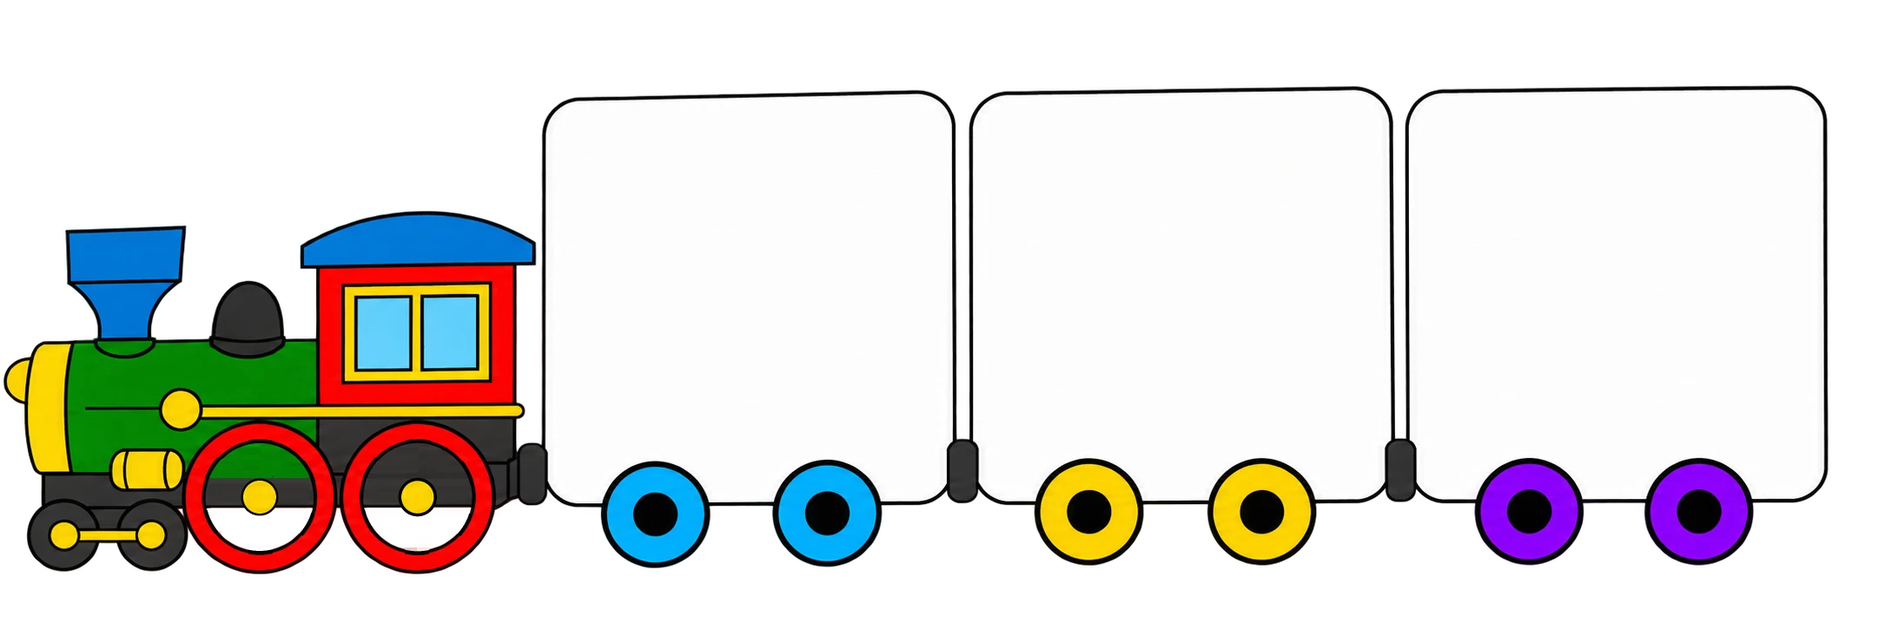
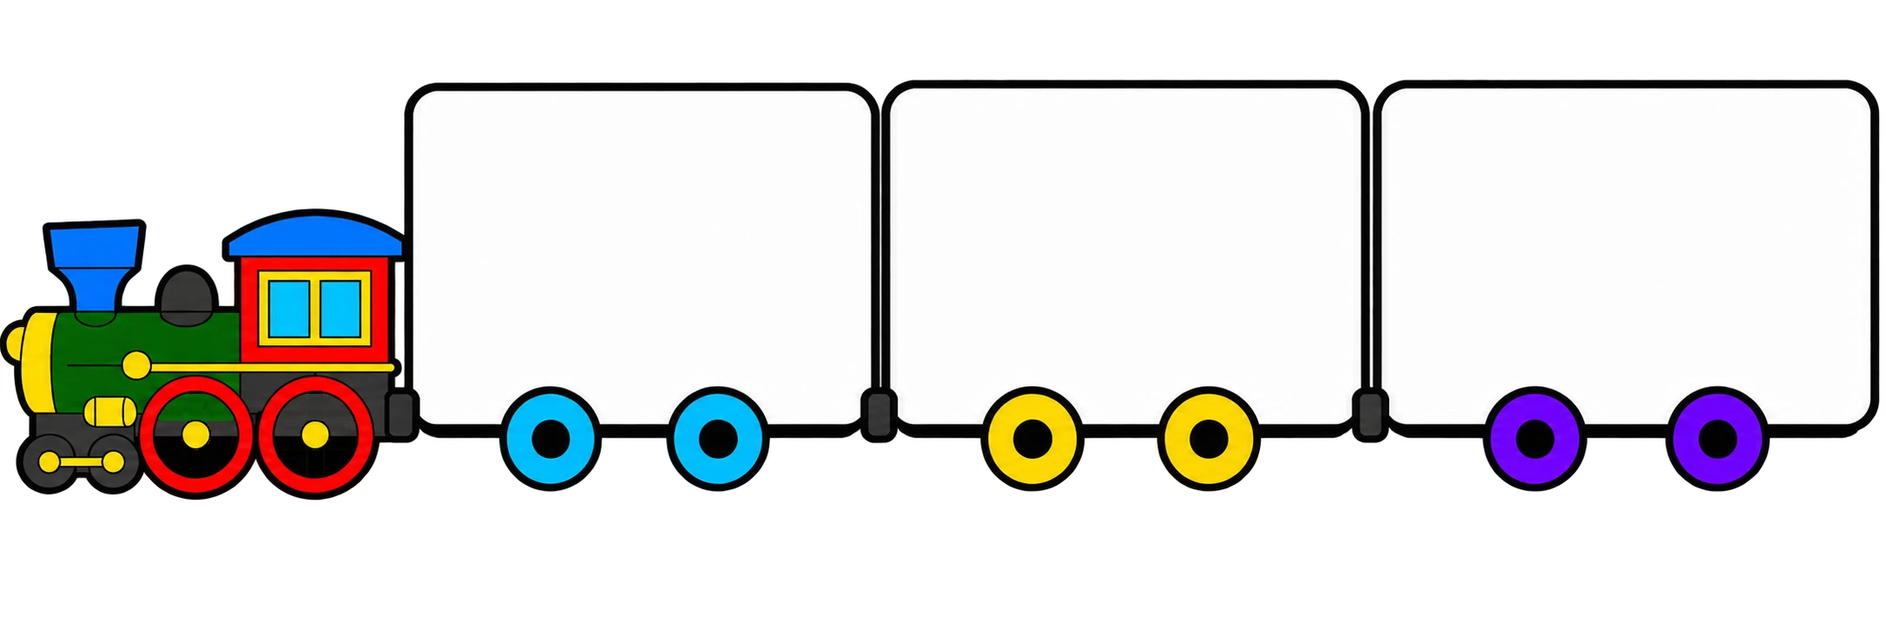
Update image assets for train visuals: replaced train_figma.webp, train_wheel_f1.webp, and train_wheel_f2.webp with new versions.

Changed region(s): [[0.0, 0.1215, 1.0, 0.9116], [0.9571, 0.7597, 0.988, 0.7901]]

diff --git a/HI02H04_L01_S01/HI02H04_L01_S01.html b/HI02H04_L01_S01/HI02H04_L01_S01.html
@@ -1053,7 +1053,7 @@ body.loaded .sg-icon{animation-play-state:running;}
 <!-- ============ CARD DATA (embedded; in prod the compiler does this) ============ -->
 
 <script type="application/json" id="cardData">
-{"version": "0.1", "end_anim": {"cols": 6, "fw": 329, "fh": 440, "step_ms": 25, "bits": "000000001110000011000001110000111100011111100000000000000000001111111111110000001111111001111100011100000111110000000", "vo": "vo_well_done", "shabaash": {"src": "assets/UI/cel_shabaash.webp", "pre": [0, 1, 2, 3, 4, 5], "word": [6, 7, 8, 9, 10, 11, 12, 13, 14, 15, 16, 17, 18, 19, 20, 21, 22, 23, 24, 25, 26, 27, 28, 29], "post": [30, 31, 32, 33, 34, 35]}, "talk": {"src": "assets/UI/cel_talk.webp", "open": [0, 1, 2, 4, 5, 6, 8, 9, 10, 11, 15, 16, 20, 21, 22, 23, 24, 25, 26, 28, 29, 30, 31, 32]}, "idle": {"src": "assets/UI/cel_idle.webp", "loop": [0, 1, 2, 3, 4, 24, 25, 26, 27, 28, 29, 30, 31, 32, 33, 34, 35]}}, "skill_code": "HI02H04_L01_S01", "lo_code": "HI02H04_L01", "grade": "G2", "attribute": "H04", "skill_type": "CORE", "part_label": "", "theme": "toybox", "landing_hero": {"kind": "image", "src": "assets/Images/pic_girl_play_ball.webp"}, "title": {"hi": "चित्र देखकर वाक्य मिलाओ!", "en": "Picture-Sentence Matching"}, "subtitle_hi": "पढ़िए · देखिए · चुनिए", "skill_description_hi": "चित्र के लिए सही वाक्य चुनता है और वाक्य के लिए सही चित्र चुनता है।", "dt_fallback": null, "phase_distribution": {"tutorial": 4, "guided": 4, "practice": 7}, "scaffold_rules": {"nudge_timeout_ms": {"guided": 5000, "independent": 8000}, "max_attempts": 3}, "signals_expected": ["slide_entered", "slide_completed", "phase_transition", "sent_to_pic_first_try", "pic_to_sent_first_try", "mastery_score", "lesson_completed"], "_emoji_fallback": {"ui_sentence_chip": "📝", "pic_boy_sit": "🧒", "pic_boy_run": "🏃", "pic_girl_play_ball": "⚽", "pic_girl_read_book": "📖", "pic_cat_drink": "🐱", "pic_cat_sleep": "😴", "pic_bird_tree": "🐦", "pic_bird_fly": "🕊", "pic_mom_cook": "🍳", "pic_mom_read": "📚", "pic_children_run": "🏃", "pic_children_sit": "🧍", "pic_sun_shine": "☀", "pic_moon_shine": "🌙", "pic_kite_fly": "🪁", "pic_kite_make": "✂"}, "slides": [{"id": "T1", "phase": "tutorial", "eis": "iconic", "type": "STORY_SCENE", "caption_chip": true, "prompt_hi": "चित्र देखिए और वाक्य पढ़िए।", "audio": {"narration": "vo_t1_instr"}, "data": {"image_id": "pic_boy_sit", "alt_hi": "लड़का पेड़ के नीचे बैठा है।", "caption_hi": "लड़का पेड़ के नीचे बैठा है।", "emoji": "🧒"}}, {"id": "T2", "phase": "tutorial", "eis": "iconic", "type": "STORY_SCENE", "caption_chip": true, "prompt_hi": "क्या यह वाक्य सही है?", "audio": {"narration": "vo_t2_instr"}, "data": {"image_id": "pic_girl_cycle", "alt_hi": "लड़का पेड़ के नीचे दौड़ रहा है।", "caption_hi": "लड़की साइकिल चला रही है।", "emoji": "🧒"}}, {"id": "T3", "phase": "tutorial", "eis": "iconic", "type": "STORY_SCENE", "caption_chip": true, "prompt_hi": "वाक्य के लिए सही चित्र चुनिए।", "audio": {"narration": "vo_t3_instr"}, "data": {"image_ids": ["pic_girl_pick_flowers", "pic_girl_water_plants"], "image_id": "pic_girl_play_ball", "alt_hi": "लड़की गेंद से खेल रही है।", "caption_hi": "लड़की पौधों को पानी दे रही है।", "emoji": "⚽"}}, {"id": "G1", "phase": "guided", "eis": "symbolic", "type": "STORY_QUESTION", "sentence_box": true, "hide_header_chip": true, "hide_nav": true, "pic_options": true, "prompt_hi": "वाक्य के लिए सही चित्र चुनिए।", "audio": {"prompt": "vo_prompt_sent_to_pic", "word_name": "vo_sent_children_ball", "try_again": "vo_try_again_read_sentence", "hint": "vo_sent_children_ball", "reveal": "vo_reveal", "correct": "vo_ok_pic"}, "data": {"stim_hi": "बच्चे गेंद से खेल रहे हैं।", "signal_name": "sent_to_pic_first_try", "mastery": false, "options": [{"img": "pic_bird_tree_gry", "emoji": "🐦"}, {"img": "pic_children_run_gry", "emoji": "🏃", "correct": true}, {"img": "pic_children_circle_opt_gry", "emoji": "🧒"}]}}, {"id": "G2", "phase": "guided", "eis": "symbolic", "type": "STORY_QUESTION", "hide_header_chip": true, "hide_nav": true, "bare_recall": true, "sentence_options": true, "prompt_hi": "चित्र के लिए सही वाक्य चुनिए।", "audio": {"prompt": "vo_prompt_pic_to_sent", "try_again": "vo_try_again_look_picture", "reveal": "vo_reveal", "correct": "vo_ok_sent_boy_drink"}, "data": {"recall_image_id": "pic_boy_drink_water_gry", "hide_recall": false, "signal_name": "pic_to_sent_first_try", "mastery": false, "options": [{"label_hi": "लड़का पानी पी रहा है।", "correct": true, "audio": "vo_sent_boy_drink_ok"}, {"label_hi": "लड़का पेड़ के नीचे बैठा है।", "audio": "vo_sent_boy_sit"}, {"label_hi": "लड़की साइकिल चला रही है।", "audio": "vo_sent_girl_cycle"}]}}, {"id": "G3", "phase": "guided", "eis": "symbolic", "type": "STORY_QUESTION", "sentence_box": true, "hide_header_chip": true, "hide_nav": true, "pic_options": true, "prompt_hi": "वाक्य के लिए सही चित्र चुनिए।", "audio": {"prompt": "vo_prompt_sent_to_pic", "word_name": "vo_sent_mom_ok", "try_again": "vo_try_again_read_sentence", "hint": "vo_sent_mom_ok", "reveal": "vo_reveal", "correct": "vo_ok_pic"}, "data": {"stim_hi": "माँ अखबार पढ़ रही है।", "signal_name": "sent_to_pic_first_try", "mastery": false, "options": [{"img": "pic_girl_read_book_gry", "emoji": "📖"}, {"img": "pic_mom_water_plants_gry", "emoji": "🪴"}, {"img": "pic_mom_read_gry", "emoji": "📰", "correct": true}]}}, {"id": "G4", "phase": "guided", "eis": "symbolic", "type": "STORY_QUESTION", "hide_header_chip": true, "hide_nav": true, "bare_recall": true, "sentence_options": true, "prompt_hi": "चित्र के लिए सही वाक्य चुनिए।", "audio": {"prompt": "vo_prompt_pic_to_sent", "try_again": "vo_try_again_look_picture", "reveal": "vo_reveal", "correct": "vo_ok_sent_children_sit"}, "data": {"recall_image_id": "pic_children_circle_gry", "hide_recall": false, "signal_name": "pic_to_sent_first_try", "mastery": false, "options": [{"label_hi": "बच्चे मैदान में बैठे हैं।", "correct": true, "audio": "vo_sent_children_sit_ok"}, {"label_hi": "लड़की साइकिल चला रही है।", "audio": "vo_sent_girl_cycle"}, {"label_hi": "बच्चे मैदान में दौड़ रहे हैं।", "audio": "vo_sent_children_ok"}]}}, {"id": "P1", "phase": "guided", "eis": "symbolic", "type": "STORY_QUESTION", "sentence_box": true, "hide_header_chip": true, "hide_nav": true, "pic_options": true, "prompt_hi": "वाक्य के लिए सही चित्र चुनिए।", "audio": {"prompt": "vo_prompt_sent_to_pic", "word_name": "vo_sent_boy_fill_ok", "try_again": "vo_try_again_read_sentence", "hint": "vo_sent_boy_fill_ok", "reveal": "vo_reveal", "correct": "vo_ok_pic"}, "data": {"stim_hi": "लड़का पानी भर रहा है।", "signal_name": "pic_to_sent_first_try", "mastery": false, "options": [{"img": "pic_boy_drink_water_sq_gry", "emoji": "🥤"}, {"img": "pic_boy_eat_gry", "emoji": "🍽"}, {"img": "pic_boy_fill_water_gry", "emoji": "🚰", "correct": true}]}}, {"id": "P2", "phase": "guided", "eis": "symbolic", "type": "STORY_QUESTION", "hide_header_chip": true, "hide_nav": true, "bare_recall": true, "sentence_options": true, "prompt_hi": "चित्र के लिए सही वाक्य चुनिए।", "audio": {"prompt": "vo_prompt_pic_to_sent", "try_again": "vo_try_again_look_picture", "reveal": "vo_reveal"}, "data": {"recall_image_id": "pic_goat_eat_gry", "stim_hi": "लड़की गेंद से खेल रही है।", "signal_name": "sent_to_pic_first_try", "mastery": false, "options": [{"label_hi": "बकरी पानी पी रही है।", "audio": "vo_sent_goat_drink"}, {"label_hi": "बकरी घास खा रही है।", "correct": true, "audio": "vo_sent_goat_ok"}, {"label_hi": "बकरी घास पर बैठी है।", "audio": "vo_sent_goat_sit"}]}}, {"id": "P3", "phase": "guided", "eis": "symbolic", "type": "STORY_QUESTION", "sentence_box": true, "hide_header_chip": true, "hide_nav": true, "pic_options": true, "prompt_hi": "वाक्य के लिए सही चित्र चुनिए।", "audio": {"prompt": "vo_prompt_sent_to_pic", "word_name": "vo_sent_cat_sleep_ok", "try_again": "vo_try_again_read_sentence", "hint": "vo_sent_cat_sleep_ok", "reveal": "vo_reveal", "correct": "vo_ok_pic"}, "data": {"stim_hi": "बिल्ली सो रही है।", "signal_name": "pic_to_sent_first_try", "mastery": false, "options": [{"img": "pic_cat_drink_sq_gry", "emoji": "🥛"}, {"img": "pic_cat_sleep_gry", "emoji": "😴", "correct": true}, {"img": "pic_cat_eat_gry", "emoji": "🍽"}]}}, {"id": "P4", "phase": "guided", "eis": "symbolic", "type": "STORY_QUESTION", "hide_header_chip": true, "hide_nav": true, "bare_recall": true, "sentence_options": true, "prompt_hi": "चित्र के लिए सही वाक्य चुनिए।", "audio": {"prompt": "vo_prompt_pic_to_sent", "try_again": "vo_try_again_look_picture", "reveal": "vo_reveal"}, "data": {"recall_image_id": "pic_bird_peck_gry", "stim_hi": "चिड़िया पेड़ पर बैठी है।", "signal_name": "sent_to_pic_first_try", "mastery": true, "options": [{"label_hi": "चिड़िया पेड़ पर बैठी है।", "audio": "vo_sent_bird_ok"}, {"label_hi": "चिड़िया उड़ रही है।", "audio": "vo_sent_bird_wrong"}, {"label_hi": "चिड़िया दाना चुग रही है।", "correct": true, "audio": "vo_sent_bird_peck_ok"}]}}, {"id": "P5", "phase": "practice", "eis": "symbolic", "type": "BLANK_PANEL", "ref_frame": true, "ref_scene": "figma", "hide_header_chip": true, "hide_nav": true, "prompt_hi": "हर वाक्य को सही चित्र से मिलाइए ।", "audio": {"prompt": "vo_p5_instr"}, "data": {"train": "train_figma", "cargo": ["train_cargo_cat", "train_cargo_goat", "train_cargo_bird"], "cargo_pos": ["center 55%", "center 45%", "center 50%"], "sentences": ["बिल्ली दूध पी रही है ।", "चिड़िया पेड़ पर बैठी है।", "बकरी घास खा रही है ।"], "auto_drag": {"pill": 0, "coach": 0, "after_ms": 0, "repeat_ms": 5000, "first_only": true}, "sentence_audio": ["vo_sent_cat_ok", "vo_sent_bird_ok", "vo_sent_goat_ok"], "answers": [0, 2, 1], "auto_next": true}}, {"id": "P6", "phase": "practice", "eis": "symbolic", "type": "BLANK_PANEL", "ref_frame": true, "ref_scene": "figma", "hide_header_chip": true, "hide_nav": true, "prompt_hi": "हर चित्र को सही वाक्य से मिलाइए ।", "audio": {"prompt": "vo_p6_instr"}, "data": {"train": "train_figma", "cargo_box": {"x": [[286, 466], [506, 686], [726, 906]], "y": [56, 171]}, "box_texts": ["दादाजी अखबार पढ़ रहे हैं ।", "बच्चे पतंग उड़ा रहे हैं ।", "कुत्ता गेंद से खेल रहा है ।"], "pictures": ["pic_dog_ball_wht", "pic_children_kite_wht", "pic_grandpa_newspaper_wht"], "pic_cargo": ["train_cargo_dog", "train_cargo_kite", "train_cargo_grandpa2"], "pic_cargo_pos": ["center 65%", "center 20%", "center 15%"], "box_audio": ["vo_sent_grandpa_newspaper", "vo_sent_children_kite", "vo_sent_dog_ball"], "pic_answers": [2, 1, 0], "auto_drag": {"pill": 0, "after_ms": 2000, "repeat_ms": 5000, "first_only": true, "glide": false}, "pics_with_train": true, "auto_next": true}}, {"id": "CEL", "phase": "practice", "eis": "enactive", "type": "CELEBRATION", "prompt_hi": "बहुत बढ़िया, दोस्त! तुमने कमाल कर दिया!", "audio": {"prompt": "vo_well_done", "sfx": "sfx_std_confetti"}, "data": {}}], "assets": {"audio": {"vo_landing": "assets/Audio/vo_landing.wav", "vo_tap_swiftee_replay": "assets/Audio/vo_tap_swiftee_replay.wav", "vo_t1_instr": "assets/Audio/vo_t1_instr.wav", "vo_tap_speaker_sentence": "assets/Audio/vo_tap_speaker_sentence.wav", "vo_sent_boy_sit": "assets/Audio/vo_sent_boy_sit.wav", "vo_t1_explain": "assets/Audio/vo_t1_explain.wav", "vo_t2_instr": "assets/Audio/vo_t2_instr.wav", "vo_sent_girl_cycle": "assets/Audio/vo_sent_girl_cycle.wav", "vo_t2_explain": "assets/Audio/vo_t2_explain.wav", "vo_t3_instr": "assets/Audio/vo_t3_instr.wav", "vo_sent_girl_water": "assets/Audio/vo_sent_girl_water.wav", "vo_t3_explain": "assets/Audio/vo_t3_explain.wav", "vo_prompt_sent_to_pic": "assets/Audio/vo_prompt_sent_to_pic.wav", "vo_sent_cat_ok": "assets/Audio/vo_sent_cat_ok.wav", "vo_sent_children_ball": "assets/Audio/vo_sent_children_ball.wav", "vo_ok_pic": "assets/Audio/vo_ok_pic.wav", "vo_hint_cat_drink": "assets/Audio/vo_hint_cat_drink.wav", "vo_try_again_read_sentence": "assets/Audio/vo_try_again_read_sentence.wav", "vo_try_again_look_picture": "assets/Audio/vo_try_again_look_picture.wav", "vo_prompt_pic_to_sent": "assets/Audio/vo_prompt_pic_to_sent.wav", "vo_sent_boy_drink_ok": "assets/Audio/vo_sent_boy_drink_ok.wav", "vo_ok_sent_boy_drink": "assets/Audio/vo_ok_sent_boy_drink.wav", "vo_sent_mom_ok": "assets/Audio/vo_sent_mom_ok.wav", "vo_hint_mom": "assets/Audio/vo_hint_mom.wav", "vo_sent_children_sit_ok": "assets/Audio/vo_sent_children_sit_ok.wav", "vo_sent_children_ok": "assets/Audio/vo_sent_children_ok.wav", "vo_ok_sent_children_sit": "assets/Audio/vo_ok_sent_children_sit.wav", "vo_sent_boy_fill_ok": "assets/Audio/vo_sent_boy_fill_ok.wav", "vo_hint_boy_fill": "assets/Audio/vo_hint_boy_fill.wav", "vo_sent_goat_drink": "assets/Audio/vo_sent_goat_drink.wav", "vo_sent_goat_ok": "assets/Audio/vo_sent_goat_ok.wav", "vo_sent_goat_sit": "assets/Audio/vo_sent_goat_sit.wav", "vo_sent_cat_sleep_ok": "assets/Audio/vo_sent_cat_sleep_ok.wav", "vo_hint_cat": "assets/Audio/vo_hint_cat.wav", "vo_sent_bird_ok": "assets/Audio/vo_sent_bird_ok.wav", "vo_sent_bird_wrong": "assets/Audio/vo_sent_bird_wrong.wav", "vo_sent_bird_peck_ok": "assets/Audio/vo_sent_bird_peck_ok.wav", "vo_p5_instr": "assets/Audio/vo_p5_instr.wav", "vo_p6_instr": "assets/Audio/vo_p6_instr.wav", "vo_sent_grandpa_newspaper": "assets/Audio/vo_sent_grandpa_newspaper.wav", "vo_sent_children_kite": "assets/Audio/vo_sent_children_kite.wav", "vo_sent_dog_ball": "assets/Audio/vo_sent_dog_ball.wav", "vo_well_done": "assets/Audio/vo_well_done.wav", "vo_try_again": "assets/Audio/vo_try_again.wav", "vo_reveal": "assets/Audio/vo_reveal.wav", "vo_pt_tutorial": "assets/Audio/vo_pt_tutorial.wav", "vo_pt_guided": "assets/Audio/vo_pt_guided.wav", "vo_pt_practice": "assets/Audio/vo_pt_practice.wav", "sfx_std_confetti": "assets/Audio/sfx_std_confetti.wav"}, "audio_text": {"vo_landing": "नमस्ते दोस्त! मैं हूँ स्विफ्टी! आज हम सीखेंगे—चित्रों को उनके सही वाक्यों से मिलाना।", "vo_tap_swiftee_replay": "फिर से सुनने के लिए मुझ पर टैप करिए।", "vo_t1_instr": "इस चित्र को ध्यान से देखिए और नीचे दिए गए वाक्य को पढ़िए।", "vo_tap_speaker_sentence": "वाक्य सुनने के लिए यहाँ टैप करिए।", "vo_sent_boy_sit": "लड़का पेड़ के नीचे बैठा है।", "vo_t1_explain": "चित्र में लड़का पेड़ के नीचे बैठा है। वाक्य में भी यही कहा गया है। इसलिए यह सही वाक्य है।", "vo_t2_instr": "ध्यान से देखिए। क्या यह वाक्य चित्र के लिए सही है?", "vo_sent_girl_cycle": "लड़की साइकिल चला रही है।", "vo_t2_explain": "हाँ! यह वाक्य सही है। चित्र में लड़की साइकिल चला रही है और वाक्य में भी यही कहा गया है।", "vo_t3_instr": "इस वाक्य के लिए सही चित्र चुनिए।", "vo_sent_girl_water": "लड़की पौधों को पानी दे रही है।", "vo_t3_explain": "इस वाक्य के लिए यह चित्र सही है।", "vo_prompt_sent_to_pic": "वाक्य पढ़िए और सही चित्र चुनिए।", "vo_sent_cat_ok": "बिल्ली दूध पी रही है।", "vo_sent_children_ball": "बच्चे गेंद से खेल रहे हैं।", "vo_ok_pic": "शाबाश! आपने सही चित्र चुना।", "vo_hint_cat_drink": "ध्यान से देखिए और वह चित्र चुनिए जिसमें बिल्ली दूध पी रही है।", "vo_try_again_read_sentence": "वाक्य फिर से पढ़िए और उससे मिलते हुए चित्र पर टैप करिए।", "vo_try_again_look_picture": "चित्र को ध्यान से देखिए और उससे मिलते हुए वाक्य पर टैप करिए।", "vo_prompt_pic_to_sent": "इस चित्र के लिए सही वाक्य चुनिए।", "vo_sent_boy_drink_ok": "लड़का पानी पी रहा है।", "vo_ok_sent_boy_drink": "शाबाश! आपने सही वाक्य चुना—लड़का पानी पी रहा है।", "vo_sent_mom_ok": "माँ अखबार पढ़ रही है।", "vo_hint_mom": "ध्यान से देखिए और वह चित्र चुनिए जिसमें माँ अखबार पढ़ रही है।", "vo_sent_children_sit_ok": "बच्चे मैदान में बैठे हैं।", "vo_sent_children_ok": "बच्चे मैदान में दौड़ रहे हैं।", "vo_ok_sent_children_sit": "शाबाश! आपने सही वाक्य चुना—बच्चे मैदान में बैठे हैं।", "vo_sent_boy_fill_ok": "लड़का पानी भर रहा है।", "vo_hint_boy_fill": "ध्यान से देखिए और वह चित्र चुनिए जिसमें लड़का पानी भर रहा है।", "vo_sent_goat_drink": "बकरी पानी पी रही है।", "vo_sent_goat_ok": "बकरी घास खा रही है।", "vo_sent_goat_sit": "बकरी घास पर बैठी है।", "vo_sent_cat_sleep_ok": "बिल्ली सो रही है।", "vo_hint_cat": "ध्यान से देखिए और वह चित्र चुनिए जिसमें बिल्ली सो रही है।", "vo_sent_bird_ok": "चिड़िया पेड़ पर बैठी है।", "vo_sent_bird_wrong": "चिड़िया उड़ रही है।", "vo_sent_bird_peck_ok": "चिड़िया दाना चुग रही है।", "vo_p5_instr": "चलिए, एक खेल खेलते हैं। हर वाक्य को सही चित्र से मिलाइए।", "vo_p6_instr": "अब चित्रों की बारी! हर चित्र को सही वाक्य से मिलाइए।", "vo_sent_grandpa_newspaper": "दादाजी अखबार पढ़ रहे हैं।", "vo_sent_children_kite": "बच्चे पतंग उड़ा रहे हैं।", "vo_sent_dog_ball": "कुत्ता गेंद से खेल रहा है।", "vo_well_done": "बहुत बढ़िया, दोस्त! तुमने कमाल कर दिया!", "vo_try_again": "फिर से कोशिश कीजिए।", "vo_reveal": "यह सही जोड़ा है।", "vo_pt_tutorial": "ध्यान से देखिए और मेरे साथ जानिए। चलिए, शुरू करें!", "vo_pt_guided": "बहुत बढ़िया! अब हम साथ मिलकर शुरू करते हैं। चलिए, साथ में करें!", "vo_pt_practice": "वाह! अब आपकी बारी।", "sfx_std_confetti": "standard confetti sound (celebration)"}, "image": {"pic_boy_sit": "assets/Images/pic_boy_sit.webp", "pic_boy_run": "assets/Images/pic_boy_run.webp", "pic_girl_play_ball": "assets/Images/pic_girl_play_ball.webp", "pic_girl_read_book": "assets/Images/pic_girl_read_book.webp", "pic_cat_drink": "assets/Images/pic_cat_drink.webp", "pic_cat_sleep": "assets/Images/pic_cat_sleep.webp", "pic_bird_tree": "assets/Images/pic_bird_tree.webp", "pic_bird_fly": "assets/Images/pic_bird_fly.webp", "pic_mom_cook": "assets/Images/pic_mom_cook.webp", "pic_mom_read": "assets/Images/pic_mom_read.webp", "pic_children_run": "assets/Images/pic_children_run.webp", "pic_children_sit": "assets/Images/pic_children_sit.webp", "pic_sun_shine": "assets/Images/pic_sun_shine.webp", "pic_moon_shine": "assets/Images/pic_moon_shine.webp", "pic_kite_fly": "assets/Images/pic_kite_fly.webp", "pic_kite_make": "assets/Images/pic_kite_make.webp", "ui_sentence_chip": "assets/Images/ui_sentence_chip.webp"}, "audio_ext": "wav", "img_ext": "webp"}}
+{"version": "0.1", "end_anim": {"cols": 6, "fw": 329, "fh": 440, "step_ms": 25, "bits": "000000001110000011000001110000111100011111100000000000000000001111111111110000001111111001111100011100000111110000000", "vo": "vo_well_done", "shabaash": {"src": "assets/UI/cel_shabaash.webp", "pre": [0, 1, 2, 3, 4, 5], "word": [6, 7, 8, 9, 10, 11, 12, 13, 14, 15, 16, 17, 18, 19, 20, 21, 22, 23, 24, 25, 26, 27, 28, 29], "post": [30, 31, 32, 33, 34, 35]}, "talk": {"src": "assets/UI/cel_talk.webp", "open": [0, 1, 2, 4, 5, 6, 8, 9, 10, 11, 15, 16, 20, 21, 22, 23, 24, 25, 26, 28, 29, 30, 31, 32]}, "idle": {"src": "assets/UI/cel_idle.webp", "loop": [0, 1, 2, 3, 4, 24, 25, 26, 27, 28, 29, 30, 31, 32, 33, 34, 35]}}, "skill_code": "HI02H04_L01_S01", "lo_code": "HI02H04_L01", "grade": "G2", "attribute": "H04", "skill_type": "CORE", "part_label": "", "theme": "toybox", "landing_hero": {"kind": "image", "src": "assets/Images/pic_girl_play_ball.webp"}, "title": {"hi": "चित्र देखकर वाक्य मिलाओ!", "en": "Picture-Sentence Matching"}, "subtitle_hi": "पढ़िए · देखिए · चुनिए", "skill_description_hi": "चित्र के लिए सही वाक्य चुनता है और वाक्य के लिए सही चित्र चुनता है।", "dt_fallback": null, "phase_distribution": {"tutorial": 4, "guided": 4, "practice": 7}, "scaffold_rules": {"nudge_timeout_ms": {"guided": 5000, "independent": 8000}, "max_attempts": 3}, "signals_expected": ["slide_entered", "slide_completed", "phase_transition", "sent_to_pic_first_try", "pic_to_sent_first_try", "mastery_score", "lesson_completed"], "_emoji_fallback": {"ui_sentence_chip": "📝", "pic_boy_sit": "🧒", "pic_boy_run": "🏃", "pic_girl_play_ball": "⚽", "pic_girl_read_book": "📖", "pic_cat_drink": "🐱", "pic_cat_sleep": "😴", "pic_bird_tree": "🐦", "pic_bird_fly": "🕊", "pic_mom_cook": "🍳", "pic_mom_read": "📚", "pic_children_run": "🏃", "pic_children_sit": "🧍", "pic_sun_shine": "☀", "pic_moon_shine": "🌙", "pic_kite_fly": "🪁", "pic_kite_make": "✂"}, "slides": [{"id": "T1", "phase": "tutorial", "eis": "iconic", "type": "STORY_SCENE", "caption_chip": true, "prompt_hi": "चित्र देखिए और वाक्य पढ़िए।", "audio": {"narration": "vo_t1_instr"}, "data": {"image_id": "pic_boy_sit", "alt_hi": "लड़का पेड़ के नीचे बैठा है।", "caption_hi": "लड़का पेड़ के नीचे बैठा है।", "emoji": "🧒"}}, {"id": "T2", "phase": "tutorial", "eis": "iconic", "type": "STORY_SCENE", "caption_chip": true, "prompt_hi": "क्या यह वाक्य सही है?", "audio": {"narration": "vo_t2_instr"}, "data": {"image_id": "pic_girl_cycle", "alt_hi": "लड़का पेड़ के नीचे दौड़ रहा है।", "caption_hi": "लड़की साइकिल चला रही है।", "emoji": "🧒"}}, {"id": "T3", "phase": "tutorial", "eis": "iconic", "type": "STORY_SCENE", "caption_chip": true, "prompt_hi": "वाक्य के लिए सही चित्र चुनिए।", "audio": {"narration": "vo_t3_instr"}, "data": {"image_ids": ["pic_girl_pick_flowers", "pic_girl_water_plants"], "image_id": "pic_girl_play_ball", "alt_hi": "लड़की गेंद से खेल रही है।", "caption_hi": "लड़की पौधों को पानी दे रही है।", "emoji": "⚽"}}, {"id": "G1", "phase": "guided", "eis": "symbolic", "type": "STORY_QUESTION", "sentence_box": true, "hide_header_chip": true, "hide_nav": true, "pic_options": true, "prompt_hi": "वाक्य के लिए सही चित्र चुनिए।", "audio": {"prompt": "vo_prompt_sent_to_pic", "word_name": "vo_sent_children_ball", "try_again": "vo_try_again_read_sentence", "hint": "vo_sent_children_ball", "reveal": "vo_reveal", "correct": "vo_ok_pic"}, "data": {"stim_hi": "बच्चे गेंद से खेल रहे हैं।", "signal_name": "sent_to_pic_first_try", "mastery": false, "options": [{"img": "pic_bird_tree_gry", "emoji": "🐦"}, {"img": "pic_children_run_gry", "emoji": "🏃", "correct": true}, {"img": "pic_children_circle_opt_gry", "emoji": "🧒"}]}}, {"id": "G2", "phase": "guided", "eis": "symbolic", "type": "STORY_QUESTION", "hide_header_chip": true, "hide_nav": true, "bare_recall": true, "sentence_options": true, "prompt_hi": "चित्र के लिए सही वाक्य चुनिए।", "audio": {"prompt": "vo_prompt_pic_to_sent", "try_again": "vo_try_again_look_picture", "reveal": "vo_reveal", "correct": "vo_ok_sent_boy_drink"}, "data": {"recall_image_id": "pic_boy_drink_water_gry", "hide_recall": false, "signal_name": "pic_to_sent_first_try", "mastery": false, "options": [{"label_hi": "लड़का पानी पी रहा है।", "correct": true, "audio": "vo_sent_boy_drink_ok"}, {"label_hi": "लड़का पेड़ के नीचे बैठा है।", "audio": "vo_sent_boy_sit"}, {"label_hi": "लड़की साइकिल चला रही है।", "audio": "vo_sent_girl_cycle"}]}}, {"id": "G3", "phase": "guided", "eis": "symbolic", "type": "STORY_QUESTION", "sentence_box": true, "hide_header_chip": true, "hide_nav": true, "pic_options": true, "prompt_hi": "वाक्य के लिए सही चित्र चुनिए।", "audio": {"prompt": "vo_prompt_sent_to_pic", "word_name": "vo_sent_mom_ok", "try_again": "vo_try_again_read_sentence", "hint": "vo_sent_mom_ok", "reveal": "vo_reveal", "correct": "vo_ok_pic"}, "data": {"stim_hi": "माँ अखबार पढ़ रही है।", "signal_name": "sent_to_pic_first_try", "mastery": false, "options": [{"img": "pic_girl_read_book_gry", "emoji": "📖"}, {"img": "pic_mom_water_plants_gry", "emoji": "🪴"}, {"img": "pic_mom_read_gry", "emoji": "📰", "correct": true}]}}, {"id": "G4", "phase": "guided", "eis": "symbolic", "type": "STORY_QUESTION", "hide_header_chip": true, "hide_nav": true, "bare_recall": true, "sentence_options": true, "prompt_hi": "चित्र के लिए सही वाक्य चुनिए।", "audio": {"prompt": "vo_prompt_pic_to_sent", "try_again": "vo_try_again_look_picture", "reveal": "vo_reveal", "correct": "vo_ok_sent_children_sit"}, "data": {"recall_image_id": "pic_children_circle_gry", "hide_recall": false, "signal_name": "pic_to_sent_first_try", "mastery": false, "options": [{"label_hi": "बच्चे मैदान में बैठे हैं।", "correct": true, "audio": "vo_sent_children_sit_ok"}, {"label_hi": "लड़की साइकिल चला रही है।", "audio": "vo_sent_girl_cycle"}, {"label_hi": "बच्चे मैदान में दौड़ रहे हैं।", "audio": "vo_sent_children_ok"}]}}, {"id": "P1", "phase": "guided", "eis": "symbolic", "type": "STORY_QUESTION", "sentence_box": true, "hide_header_chip": true, "hide_nav": true, "pic_options": true, "prompt_hi": "वाक्य के लिए सही चित्र चुनिए।", "audio": {"prompt": "vo_prompt_sent_to_pic", "word_name": "vo_sent_boy_fill_ok", "try_again": "vo_try_again_read_sentence", "hint": "vo_sent_boy_fill_ok", "reveal": "vo_reveal", "correct": "vo_ok_pic"}, "data": {"stim_hi": "लड़का पानी भर रहा है।", "signal_name": "pic_to_sent_first_try", "mastery": false, "options": [{"img": "pic_boy_drink_water_sq_gry", "emoji": "🥤"}, {"img": "pic_boy_eat_gry", "emoji": "🍽"}, {"img": "pic_boy_fill_water_gry", "emoji": "🚰", "correct": true}]}}, {"id": "P2", "phase": "guided", "eis": "symbolic", "type": "STORY_QUESTION", "hide_header_chip": true, "hide_nav": true, "bare_recall": true, "sentence_options": true, "prompt_hi": "चित्र के लिए सही वाक्य चुनिए।", "audio": {"prompt": "vo_prompt_pic_to_sent", "try_again": "vo_try_again_look_picture", "reveal": "vo_reveal"}, "data": {"recall_image_id": "pic_goat_eat_gry", "stim_hi": "लड़की गेंद से खेल रही है।", "signal_name": "sent_to_pic_first_try", "mastery": false, "options": [{"label_hi": "बकरी पानी पी रही है।", "audio": "vo_sent_goat_drink"}, {"label_hi": "बकरी घास खा रही है।", "correct": true, "audio": "vo_sent_goat_ok"}, {"label_hi": "बकरी घास पर बैठी है।", "audio": "vo_sent_goat_sit"}]}}, {"id": "P3", "phase": "guided", "eis": "symbolic", "type": "STORY_QUESTION", "sentence_box": true, "hide_header_chip": true, "hide_nav": true, "pic_options": true, "prompt_hi": "वाक्य के लिए सही चित्र चुनिए।", "audio": {"prompt": "vo_prompt_sent_to_pic", "word_name": "vo_sent_cat_sleep_ok", "try_again": "vo_try_again_read_sentence", "hint": "vo_sent_cat_sleep_ok", "reveal": "vo_reveal", "correct": "vo_ok_pic"}, "data": {"stim_hi": "बिल्ली सो रही है।", "signal_name": "pic_to_sent_first_try", "mastery": false, "options": [{"img": "pic_cat_drink_sq_gry", "emoji": "🥛"}, {"img": "pic_cat_sleep_gry", "emoji": "😴", "correct": true}, {"img": "pic_cat_eat_gry", "emoji": "🍽"}]}}, {"id": "P4", "phase": "guided", "eis": "symbolic", "type": "STORY_QUESTION", "hide_header_chip": true, "hide_nav": true, "bare_recall": true, "sentence_options": true, "prompt_hi": "चित्र के लिए सही वाक्य चुनिए।", "audio": {"prompt": "vo_prompt_pic_to_sent", "try_again": "vo_try_again_look_picture", "reveal": "vo_reveal"}, "data": {"recall_image_id": "pic_bird_peck_gry", "stim_hi": "चिड़िया पेड़ पर बैठी है।", "signal_name": "sent_to_pic_first_try", "mastery": true, "options": [{"label_hi": "चिड़िया पेड़ पर बैठी है।", "audio": "vo_sent_bird_ok"}, {"label_hi": "चिड़िया उड़ रही है।", "audio": "vo_sent_bird_wrong"}, {"label_hi": "चिड़िया दाना चुग रही है।", "correct": true, "audio": "vo_sent_bird_peck_ok"}]}}, {"id": "P5", "phase": "practice", "eis": "symbolic", "type": "BLANK_PANEL", "ref_frame": true, "ref_scene": "figma", "hide_header_chip": true, "hide_nav": true, "prompt_hi": "हर वाक्य को सही चित्र से मिलाइए ।", "audio": {"prompt": "vo_p5_instr"}, "data": {"train": "train_figma", "cargo": ["train_cargo_cat", "train_cargo_goat", "train_cargo_bird"], "cargo_pos": ["center 85%", "center 70%", "center 50%"], "sentences": ["बिल्ली दूध पी रही है ।", "चिड़िया पेड़ पर बैठी है।", "बकरी घास खा रही है ।"], "auto_drag": {"pill": 0, "coach": 0, "after_ms": 0, "repeat_ms": 5000, "first_only": true}, "sentence_audio": ["vo_sent_cat_ok", "vo_sent_bird_ok", "vo_sent_goat_ok"], "answers": [0, 2, 1], "auto_next": true}}, {"id": "P6", "phase": "practice", "eis": "symbolic", "type": "BLANK_PANEL", "ref_frame": true, "ref_scene": "figma", "hide_header_chip": true, "hide_nav": true, "prompt_hi": "हर चित्र को सही वाक्य से मिलाइए ।", "audio": {"prompt": "vo_p6_instr"}, "data": {"train": "train_figma", "cargo_box": {"x": [[251.5, 487.5], [529.5, 765.5], [816.9, 1052.9]], "y": [61, 167]}, "box_texts": ["दादाजी अखबार पढ़ रहे हैं ।", "बच्चे पतंग उड़ा रहे हैं ।", "कुत्ता गेंद से खेल रहा है ।"], "pictures": ["pic_dog_ball_wht", "pic_children_kite_wht", "pic_grandpa_newspaper_wht"], "pic_cargo": ["train_cargo_dog", "train_cargo_kite", "train_cargo_grandpa2"], "pic_cargo_pos": ["center 85%", "center 15%", "center 20%"], "box_audio": ["vo_sent_grandpa_newspaper", "vo_sent_children_kite", "vo_sent_dog_ball"], "pic_answers": [2, 1, 0], "auto_drag": {"pill": 0, "after_ms": 2000, "repeat_ms": 5000, "first_only": true, "glide": false}, "pics_with_train": true, "auto_next": true}}, {"id": "CEL", "phase": "practice", "eis": "enactive", "type": "CELEBRATION", "prompt_hi": "बहुत बढ़िया, दोस्त! तुमने कमाल कर दिया!", "audio": {"prompt": "vo_well_done", "sfx": "sfx_std_confetti"}, "data": {}}], "assets": {"audio": {"vo_landing": "assets/Audio/vo_landing.wav", "vo_tap_swiftee_replay": "assets/Audio/vo_tap_swiftee_replay.wav", "vo_t1_instr": "assets/Audio/vo_t1_instr.wav", "vo_tap_speaker_sentence": "assets/Audio/vo_tap_speaker_sentence.wav", "vo_sent_boy_sit": "assets/Audio/vo_sent_boy_sit.wav", "vo_t1_explain": "assets/Audio/vo_t1_explain.wav", "vo_t2_instr": "assets/Audio/vo_t2_instr.wav", "vo_sent_girl_cycle": "assets/Audio/vo_sent_girl_cycle.wav", "vo_t2_explain": "assets/Audio/vo_t2_explain.wav", "vo_t3_instr": "assets/Audio/vo_t3_instr.wav", "vo_sent_girl_water": "assets/Audio/vo_sent_girl_water.wav", "vo_t3_explain": "assets/Audio/vo_t3_explain.wav", "vo_prompt_sent_to_pic": "assets/Audio/vo_prompt_sent_to_pic.wav", "vo_sent_cat_ok": "assets/Audio/vo_sent_cat_ok.wav", "vo_sent_children_ball": "assets/Audio/vo_sent_children_ball.wav", "vo_ok_pic": "assets/Audio/vo_ok_pic.wav", "vo_hint_cat_drink": "assets/Audio/vo_hint_cat_drink.wav", "vo_try_again_read_sentence": "assets/Audio/vo_try_again_read_sentence.wav", "vo_try_again_look_picture": "assets/Audio/vo_try_again_look_picture.wav", "vo_prompt_pic_to_sent": "assets/Audio/vo_prompt_pic_to_sent.wav", "vo_sent_boy_drink_ok": "assets/Audio/vo_sent_boy_drink_ok.wav", "vo_ok_sent_boy_drink": "assets/Audio/vo_ok_sent_boy_drink.wav", "vo_sent_mom_ok": "assets/Audio/vo_sent_mom_ok.wav", "vo_hint_mom": "assets/Audio/vo_hint_mom.wav", "vo_sent_children_sit_ok": "assets/Audio/vo_sent_children_sit_ok.wav", "vo_sent_children_ok": "assets/Audio/vo_sent_children_ok.wav", "vo_ok_sent_children_sit": "assets/Audio/vo_ok_sent_children_sit.wav", "vo_sent_boy_fill_ok": "assets/Audio/vo_sent_boy_fill_ok.wav", "vo_hint_boy_fill": "assets/Audio/vo_hint_boy_fill.wav", "vo_sent_goat_drink": "assets/Audio/vo_sent_goat_drink.wav", "vo_sent_goat_ok": "assets/Audio/vo_sent_goat_ok.wav", "vo_sent_goat_sit": "assets/Audio/vo_sent_goat_sit.wav", "vo_sent_cat_sleep_ok": "assets/Audio/vo_sent_cat_sleep_ok.wav", "vo_hint_cat": "assets/Audio/vo_hint_cat.wav", "vo_sent_bird_ok": "assets/Audio/vo_sent_bird_ok.wav", "vo_sent_bird_wrong": "assets/Audio/vo_sent_bird_wrong.wav", "vo_sent_bird_peck_ok": "assets/Audio/vo_sent_bird_peck_ok.wav", "vo_p5_instr": "assets/Audio/vo_p5_instr.wav", "vo_p6_instr": "assets/Audio/vo_p6_instr.wav", "vo_sent_grandpa_newspaper": "assets/Audio/vo_sent_grandpa_newspaper.wav", "vo_sent_children_kite": "assets/Audio/vo_sent_children_kite.wav", "vo_sent_dog_ball": "assets/Audio/vo_sent_dog_ball.wav", "vo_well_done": "assets/Audio/vo_well_done.wav", "vo_try_again": "assets/Audio/vo_try_again.wav", "vo_reveal": "assets/Audio/vo_reveal.wav", "vo_pt_tutorial": "assets/Audio/vo_pt_tutorial.wav", "vo_pt_guided": "assets/Audio/vo_pt_guided.wav", "vo_pt_practice": "assets/Audio/vo_pt_practice.wav", "sfx_std_confetti": "assets/Audio/sfx_std_confetti.wav"}, "audio_text": {"vo_landing": "नमस्ते दोस्त! मैं हूँ स्विफ्टी! आज हम सीखेंगे—चित्रों को उनके सही वाक्यों से मिलाना।", "vo_tap_swiftee_replay": "फिर से सुनने के लिए मुझ पर टैप करिए।", "vo_t1_instr": "इस चित्र को ध्यान से देखिए और नीचे दिए गए वाक्य को पढ़िए।", "vo_tap_speaker_sentence": "वाक्य सुनने के लिए यहाँ टैप करिए।", "vo_sent_boy_sit": "लड़का पेड़ के नीचे बैठा है।", "vo_t1_explain": "चित्र में लड़का पेड़ के नीचे बैठा है। वाक्य में भी यही कहा गया है। इसलिए यह सही वाक्य है।", "vo_t2_instr": "ध्यान से देखिए। क्या यह वाक्य चित्र के लिए सही है?", "vo_sent_girl_cycle": "लड़की साइकिल चला रही है।", "vo_t2_explain": "हाँ! यह वाक्य सही है। चित्र में लड़की साइकिल चला रही है और वाक्य में भी यही कहा गया है।", "vo_t3_instr": "इस वाक्य के लिए सही चित्र चुनिए।", "vo_sent_girl_water": "लड़की पौधों को पानी दे रही है।", "vo_t3_explain": "इस वाक्य के लिए यह चित्र सही है।", "vo_prompt_sent_to_pic": "वाक्य पढ़िए और सही चित्र चुनिए।", "vo_sent_cat_ok": "बिल्ली दूध पी रही है।", "vo_sent_children_ball": "बच्चे गेंद से खेल रहे हैं।", "vo_ok_pic": "शाबाश! आपने सही चित्र चुना।", "vo_hint_cat_drink": "ध्यान से देखिए और वह चित्र चुनिए जिसमें बिल्ली दूध पी रही है।", "vo_try_again_read_sentence": "वाक्य फिर से पढ़िए और उससे मिलते हुए चित्र पर टैप करिए।", "vo_try_again_look_picture": "चित्र को ध्यान से देखिए और उससे मिलते हुए वाक्य पर टैप करिए।", "vo_prompt_pic_to_sent": "इस चित्र के लिए सही वाक्य चुनिए।", "vo_sent_boy_drink_ok": "लड़का पानी पी रहा है।", "vo_ok_sent_boy_drink": "शाबाश! आपने सही वाक्य चुना—लड़का पानी पी रहा है।", "vo_sent_mom_ok": "माँ अखबार पढ़ रही है।", "vo_hint_mom": "ध्यान से देखिए और वह चित्र चुनिए जिसमें माँ अखबार पढ़ रही है।", "vo_sent_children_sit_ok": "बच्चे मैदान में बैठे हैं।", "vo_sent_children_ok": "बच्चे मैदान में दौड़ रहे हैं।", "vo_ok_sent_children_sit": "शाबाश! आपने सही वाक्य चुना—बच्चे मैदान में बैठे हैं।", "vo_sent_boy_fill_ok": "लड़का पानी भर रहा है।", "vo_hint_boy_fill": "ध्यान से देखिए और वह चित्र चुनिए जिसमें लड़का पानी भर रहा है।", "vo_sent_goat_drink": "बकरी पानी पी रही है।", "vo_sent_goat_ok": "बकरी घास खा रही है।", "vo_sent_goat_sit": "बकरी घास पर बैठी है।", "vo_sent_cat_sleep_ok": "बिल्ली सो रही है।", "vo_hint_cat": "ध्यान से देखिए और वह चित्र चुनिए जिसमें बिल्ली सो रही है।", "vo_sent_bird_ok": "चिड़िया पेड़ पर बैठी है।", "vo_sent_bird_wrong": "चिड़िया उड़ रही है।", "vo_sent_bird_peck_ok": "चिड़िया दाना चुग रही है।", "vo_p5_instr": "चलिए, एक खेल खेलते हैं। हर वाक्य को सही चित्र से मिलाइए।", "vo_p6_instr": "अब चित्रों की बारी! हर चित्र को सही वाक्य से मिलाइए।", "vo_sent_grandpa_newspaper": "दादाजी अखबार पढ़ रहे हैं।", "vo_sent_children_kite": "बच्चे पतंग उड़ा रहे हैं।", "vo_sent_dog_ball": "कुत्ता गेंद से खेल रहा है।", "vo_well_done": "बहुत बढ़िया, दोस्त! तुमने कमाल कर दिया!", "vo_try_again": "फिर से कोशिश कीजिए।", "vo_reveal": "यह सही जोड़ा है।", "vo_pt_tutorial": "ध्यान से देखिए और मेरे साथ जानिए। चलिए, शुरू करें!", "vo_pt_guided": "बहुत बढ़िया! अब हम साथ मिलकर शुरू करते हैं। चलिए, साथ में करें!", "vo_pt_practice": "वाह! अब आपकी बारी।", "sfx_std_confetti": "standard confetti sound (celebration)"}, "image": {"pic_boy_sit": "assets/Images/pic_boy_sit.webp", "pic_boy_run": "assets/Images/pic_boy_run.webp", "pic_girl_play_ball": "assets/Images/pic_girl_play_ball.webp", "pic_girl_read_book": "assets/Images/pic_girl_read_book.webp", "pic_cat_drink": "assets/Images/pic_cat_drink.webp", "pic_cat_sleep": "assets/Images/pic_cat_sleep.webp", "pic_bird_tree": "assets/Images/pic_bird_tree.webp", "pic_bird_fly": "assets/Images/pic_bird_fly.webp", "pic_mom_cook": "assets/Images/pic_mom_cook.webp", "pic_mom_read": "assets/Images/pic_mom_read.webp", "pic_children_run": "assets/Images/pic_children_run.webp", "pic_children_sit": "assets/Images/pic_children_sit.webp", "pic_sun_shine": "assets/Images/pic_sun_shine.webp", "pic_moon_shine": "assets/Images/pic_moon_shine.webp", "pic_kite_fly": "assets/Images/pic_kite_fly.webp", "pic_kite_make": "assets/Images/pic_kite_make.webp", "ui_sentence_chip": "assets/Images/ui_sentence_chip.webp"}, "audio_ext": "wav", "img_ext": "webp"}}
 </script>
 
 <script id="FLN-ANIMATION-KIT-CORE">
@@ -4056,8 +4056,13 @@ const SlideModules = {
       // background, <style id="P13-14-FIGMA295-CSS">); the run is 118% of the picture so the nose enters from the stage's right edge
       // and the tail leaves past the left. The picture grid is no longer the 987x234 of the toy-train art: PIC_PW / PIC_PH below
       const FIGMA = slide.ref_scene === 'figma';
-      const PIC_PW = FIGMA ? 948 : 987, PIC_PH = FIGMA ? 317 : 234;   // the art's own grid (picture px): width x height
-      const PIC_W = FIGMA ? 987.3 : STATION ? 1176.4 : 1025, RUN = FIGMA ? 1.18 : STATION ? 1 : 0.92, CARD_H = (STATION || FIGMA) ? 150 : 160, CARD_W = CARD_H * 1410 / 1188;
+      // [P13-14-FIGMA428] (2026-10-17, user request) the train of the Figma frame 428-8 ("image 258", FLN by MJ) replaces the 295-26 one
+      // on P5 / P6 (?slide=11 / 12), at that frame's size and place: 1082x361 at (99,211) of the 1280x720 frame, the raw art
+      // (assets/Images/train_figma.webp, 2172x724) cover-fitted into it, so the grid is 1083 x 361 picture px = frame px (2.0055 raw px
+      // each), shown 1127.8px wide (x1.0414) and centred on the stage. The run is 110% of the picture (nose in from x 1333, tail out
+      // past x 0, as 118% did for the shorter train). Every picture-px figure below for FIGMA is on this grid (measured on the art)
+      const PIC_PW = FIGMA ? 1083 : 987, PIC_PH = FIGMA ? 361 : 234;   // the art's own grid (picture px): width x height
+      const PIC_W = FIGMA ? 1127.8 : STATION ? 1176.4 : 1025, RUN = FIGMA ? 1.10 : STATION ? 1 : 0.92, CARD_H = (STATION || FIGMA) ? 150 : 160, CARD_W = CARD_H * 1410 / 1188;
       const PIC_S = PIC_W / PIC_PW;   // CSS px per picture px: the 987px-wide art is shown at the panel's inner width (1025px on the white panel)
       const panel = document.createElement("div"); panel.className = "ref-panel";
       // [PORT] data.train (image id): the train picture (train + its own rail band, transparent) shown at the panel's full
@@ -4087,8 +4092,12 @@ const SlideModules = {
         // --turn, the spin, is exactly what it was). The split (the scratchpad's wheels/make_figma_train_v4.py): the six spoke bars
         // are repainted by radial zone - hub yellow / outline black / the backdrop colour of the same ROW (green cab, grey chassis,
         // black line, transparent below) / rim-outline black / red - so nothing of a spoke stays behind the spinning ones
-        const WHEELS = FIGMA ? [{ cx:130.6, cy:250.3, r:36.3, hs:42.4, src:'train_wheel_f1', bg:null },
-                                { cx:210.0, cy:250.3, r:36.3, hs:42.4, src:'train_wheel_f2', bg:null }]
+        // [P13-14-FIGMA428]: the new loco's two red wheels, six yellow spokes each - hub / ring circle fits agree within 0.3 raw px; the
+        // spokes (with outlines and their tips in the ring's inner outline) cut out into 96x96 raw px boxes on the hubs (23.93 picture px
+        // half size), the base art repainted under them by the backdrop of the same row (green boiler, grey chassis, black); r 37.15 =
+        // the ring's outer outline, where it meets the rail (the scratchpad's train2/make_train428.py)
+        const WHEELS = FIGMA ? [{ cx:112.69, cy:249.81, r:37.15, hs:23.93, src:'train_wheel_f1', bg:null },
+                                { cx:181.00, cy:249.81, r:37.15, hs:23.93, src:'train_wheel_f2', bg:null }]
                              : [{ cx:204.2, cy:174.4, r:32.9, hs:27, src:'train_wheel_1', bg:'train_wheel_bg_1' },
                                 { cx:273.1, cy:174.3, r:32.9, hs:27, src:'train_wheel_2', bg:'train_wheel_bg_2' }];
         const wheels = document.createElement('div'); wheels.className = 'ref-wheels';
@@ -4110,13 +4119,19 @@ const SlideModules = {
         // #P13-14-FIGMA295-CSS) and turns cream the moment a sentence is dropped on the right coach (finish() below drops .ref-empty);
         // page 14's strips are written at mount and stay cream. data-coach lets the drop find its strip
         const STRIP_EMPTY = Array.isArray(d.sentences) && d.sentences.length > 0 && !(Array.isArray(d.box_texts) && d.box_texts.length);
+        // [P13-14-FIGMA428]: the 428-8 frame draws coach 1's drop box (236x106 at x 350, y 272) and strip (236x45 at y 385) - picture
+        // x 251.5-487.5, y 61-167 / 174-219; coaches 2 and 3 (wider: interiors 526 / 541 / 562 raw px) carry the same two boxes at the
+        // same height and the same offset from their interior's centre (+1 picture px, as on coach 1)
         if(FIGMA){
           const art = document.createElement('div'); art.className = 'ref-coachart';
-          const BOXES = [[286, 466], [506, 686], [726, 906]];
+          const BOXES = [[251.5, 487.5], [529.5, 765.5], [816.9, 1052.9]];
           BOXES.forEach(([x0, x1], coach) => {
-            [['ref-coach-drop', 56, 171], ['ref-coach-strip', 174, 232]].forEach(([cls, y0, y1]) => {
+            [['ref-coach-drop', 61, 167], ['ref-coach-strip', 174, 219]].forEach(([cls, y0, y1]) => {
               const el = document.createElement('div'); el.className = cls;
               if(cls === 'ref-coach-strip' && STRIP_EMPTY){ el.classList.add('ref-fillable', 'ref-empty'); el.dataset.coach = coach; }
+              // [P13-14-FIGMA428] a drop box under a picture keeps no dashes (.ref-filled, #P13-14-FIGMA428-CSS): both share one fractional
+              // edge, where the dash bled through the picture's anti-aliased rim. P5's boxes hold their picture from mount; P6's on landing
+              if(cls === 'ref-coach-drop'){ el.dataset.coach = coach; if(Array.isArray(d.cargo) && d.cargo[coach]) el.classList.add('ref-filled'); }
               el.style.left = (x0 * PIC_S) + 'px'; el.style.width = ((x1 - x0) * PIC_S) + 'px';
               el.style.bottom = (-4 + (PIC_PH - y1) * PIC_S) + 'px'; el.style.height = ((y1 - y0) * PIC_S) + 'px';
               art.appendChild(el); }); });
@@ -4192,10 +4207,12 @@ const SlideModules = {
       // [P13-14-FIGMA295]: on the Figma art the coach bodies run, outline to outline, x 270-482 / 485-701 / 705-920, y 43-257 (the top outline's
       // row to the bottom outline's); the strip is the sentence box (x 286-466 / 506-686 / 726-906, y 174-232) and the dashed box above
       // it is where a picture lands (data.cargo_box on page 14; the cargo rules of #P13-14-FIGMA295-CSS on page 13)
-      const placed = [], placedEl = [], COACH_X = FIGMA ? [[270,482],[485,701],[705,920]] : [[308,510],[510,701],[701,897]], COACH_Y = FIGMA ? [43,257] : [0,181];
+      // [P13-14-FIGMA428]: the 428-8 coaches outline to outline: x 232.4-505.1 / 506.1-786.8 / 788.3-1079.0, y 45.9-251.8; the strip
+      // (sentence box) and the drop box are the coach art's boxes above
+      const placed = [], placedEl = [], COACH_X = FIGMA ? [[232.4,505.1],[506.1,786.8],[788.3,1079.0]] : [[308,510],[510,701],[701,897]], COACH_Y = FIGMA ? [45.9,251.8] : [0,181];
       // [P13-14-STATION] rev 8 (2026-10-02): on the station art (train_wagons4*.png) the whole coach interior is picture area over a
       // full-width text strip, so the sentence box is the strip itself: the interior's x (327-505 / 517-698 / 709-891), y 118-180
-      const BOX_X = FIGMA ? [[286,466],[506,686],[726,906]] : STATION ? [[327,506],[517,699],[709,892]] : [[339,495],[528,688],[720,881]], BOX_Y = FIGMA ? [174,232] : STATION ? [118,180] : [104,150];
+      const BOX_X = FIGMA ? [[251.5,487.5],[529.5,765.5],[816.9,1052.9]] : STATION ? [[327,506],[517,699],[709,892]] : [[339,495],[528,688],[720,881]], BOX_Y = FIGMA ? [174,219] : STATION ? [118,180] : [104,150];
       // where a dropped picture lands, in picture px: by default the white of the window above the sentence box (page 13's
       // cargo boxes, as CSS .ref-cargo-img: the window's x, y ~20-104). data.cargo_box {x:[[x0,x1] per coach], y:[y0,y1]} overrides it
       // for art with its own drop box — page 14's train_wagons2_p14 has a dashed drop box ABOVE the plain cream sentence
@@ -4252,6 +4269,8 @@ const SlideModules = {
         im.style.left = CARGO_L[coach] + 'px'; im.style.width = CARGO_W[coach] + 'px';
         if(cb){ im.style.bottom = CARGO_B_OF(coach) + 'px'; im.style.height = CARGO_H_OF(coach) + 'px'; im.style.borderRadius = FIGMA ? (8 * PIC_S).toFixed(1) + 'px' : STATION ? (21 * PIC_S).toFixed(1) + 'px ' + (21 * PIC_S).toFixed(1) + 'px 0 0' : (9 * PIC_S / (1025 / 987)).toFixed(1) + 'px'; }   // the drop box's corners: on the station art the coach interior's r20 top corners plus the 1px overlap (r21; the strip meets it below), else its r9 on all four sides (9px at the white panel's scale)
         if(pos) im.style.objectPosition = pos;   // the cover-fit's focus (data.pic_cargo_pos)
+        const drop = panel.querySelector('.ref-coach-drop[data-coach="' + coach + '"]');   // [P13-14-FIGMA428] its dashes go once the picture has popped in
+        if(drop){ const fill = ()=> drop.classList.add('ref-filled'); im.addEventListener('animationend', fill, { once:true }); setTimeout(fill, 400); }
         im.src = 'assets/Images/' + id + '.webp'; im.onerror = ()=>{ im.style.display = 'none'; }; cargo.appendChild(im); return im; };
       // item i placed in coach c: the sentence written in the box, or the picture (its data.pic_cargo coach version, else the
       // card's own picture; data.pic_cargo_pos[i] = its cover-fit focus) filling the drop box
@@ -9448,6 +9467,32 @@ html.rotated body.station-page::before{inset:auto;left:50%;top:50%;width:100vh;h
 .stage.ref-figma .ref-pics{position:absolute;left:0;right:0;top:436px;margin:0;}
 .stage.ref-figma .ref-pics .ref-pic:not(.ref-over){height:150px;border-radius:12.1px;}
 .stage.ref-figma .ref-pics .ref-pic:not(.ref-dragging):not(.ref-placing){box-shadow:0 1px 6px rgba(11,42,90,.20),0 0 2px rgba(11,42,90,.12);}
+</style>
+<style id="P13-14-FIGMA428-CSS">
+/* [P13-14-FIGMA428] (2026-10-17, user request) P5 / P6 (?slide=11 / 12): the train of the Figma frame "Mission-Stage-Q-Explanation"
+   428-8 (FLN by MJ) at that frame's size and place - "image 258", 1082x361 at (99,211) of the 1280x720 frame, the art cover-fitted
+   (1083 x 361 picture px) -> x1.0414: 1127.8 x 375.9px at (102.6, 219.7) on the stage, centred like the frame's. assets/Images/
+   train_figma.webp (2172x724) and the spinning spokes train_wheel_f1/f2.webp (96x96) are now that art (old files in git history). The
+   rules of #P13-14-FIGMA295-CSS above still hold except the values below, which follow the bigger train; the rail, the header, the
+   sentence pills (P5) and picture cards (P6) under it, every run, sound, VO and the whole task are as they were.
+   - panel: the picture hangs from it as before (4px transparent border, picture bottom on the outer bottom): left 102.6 - 4, top
+     219.7 - 8 - 140 (the slide host starts under the 140px header row), 1135.8 x 383.9 border-box; the run 110% (module RUN 1.10)
+   - P5's coach pictures fill the drop boxes: 236 x 106 frame px -> 245.8 x 110.4px, bottom 198px, left 261.9 / 551.4 / 850.7px
+     (their crop focus, card data.cargo_pos, re-aimed for the wider boxes; P6's drop boxes come from card data.cargo_box)
+   - smoke from this funnel: chimney centre x 109 raw (54.35 picture px), blue top y 261 raw (130.1) - the same points as before
+   - in-coach sentences: ONE line each, 22px (the widest, "दादाजी अखबार पढ़ रहे हैं ।", measures 216.9px in the 245.8 x 46.9px
+     strip), centred in the strip as before; a P5 pill dragged over a coach shrinks to that strip (its 320x72 slot kept by margins) */
+.stage.ref-figma .ref-panel{left:98.6px;top:71.7px;width:1135.8px;height:383.9px;--ref-run:110%;}
+.stage.ref-figma .ref-panel .ref-cargo-img{bottom:198px;height:110.4px;}
+.stage.ref-figma .ref-panel .ref-cargo-img:nth-child(1){left:261.9px;width:245.8px;}
+.stage.ref-figma .ref-panel .ref-cargo-img:nth-child(2){left:551.4px;width:245.8px;}
+.stage.ref-figma .ref-panel .ref-cargo-img:nth-child(3){left:850.7px;width:245.8px;}
+.stage.ref-figma .ref-panel .ref-smoke{bottom:236.4px;}
+.stage.ref-figma .ref-panel .ref-puff{left:39.6px;}
+.stage.ref-figma .ref-panel .ref-slot-text,.stage.ref-figma .ref-panel .ref-slots.ref-ride .ref-slot-text{font-size:22px;white-space:nowrap;}
+.stage.ref-figma .ref-opts .ref-opt.ref-over{width:245.8px;min-height:46.9px;margin:12.6px 37.1px;font-size:22px;}
+/* a drop box with its picture in it: no dashes (the picture covers the box exactly; on the shared fractional edge the dash showed through) */
+.stage.ref-figma .ref-panel .ref-coach-drop.ref-filled{border-color:transparent;}
 </style>
 <style id="P6-PICS-WITH-TRAIN-CSS">
 /* [P6-PICS-WITH-TRAIN] (2026-10-17, user request) P6 (= ?slide=12, card data.pics_with_train): the three picture cards under the
